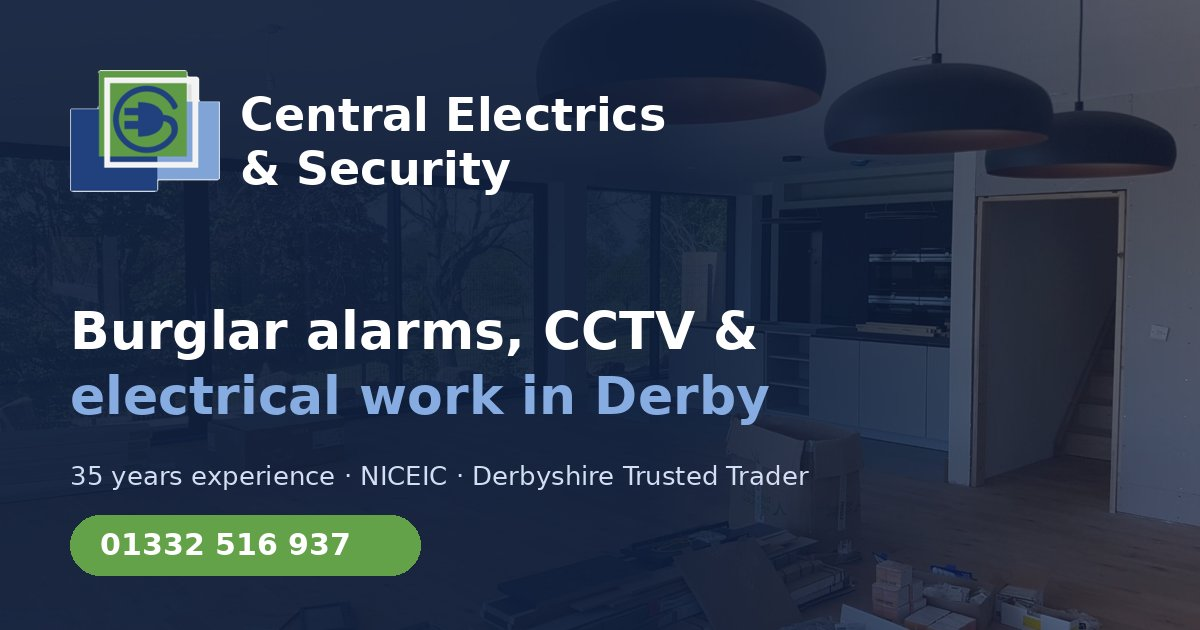
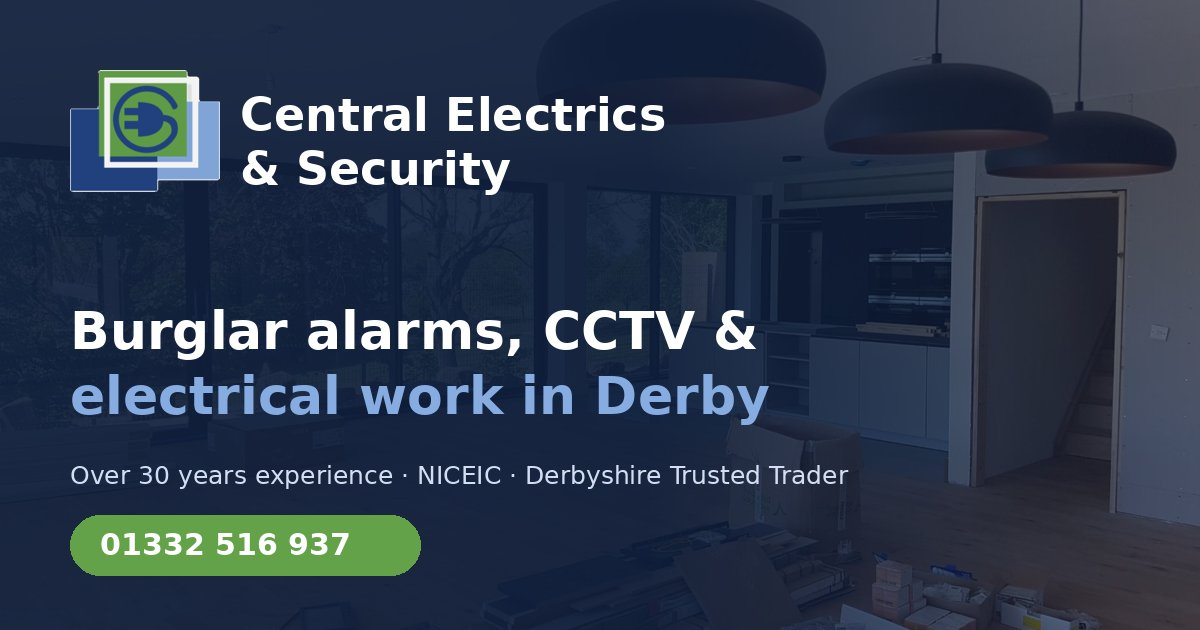
test

Changed region(s): [[0.0617, 0.7238, 0.7092, 0.7841]]

diff --git a/index.html b/index.html
@@ -4,14 +4,14 @@
 <meta charset="utf-8">
 <meta name="viewport" content="width=device-width, initial-scale=1, viewport-fit=cover">
 <title>Central Electrics & Security | Electricians, Burglar Alarms & CCTV in Derby</title>
-<meta name="description" content="Central Electrics & Security Ltd, Derby. Burglar alarms, CCTV, door entry, security lighting and domestic electrical work. NICEIC Domestic Installer with 35 years experience.">
+<meta name="description" content="Central Electrics & Security Ltd, Derby. Burglar alarms, CCTV, door entry, security lighting and domestic electrical work. NICEIC Domestic Installer with over 30 years experience.">
 <meta name="theme-color" content="#0e1d3a">
 <link rel="canonical" href="https://www.centralelectricsandsecurity.co.uk/">
 <meta property="og:type" content="website">
 <meta property="og:locale" content="en_GB">
 <meta property="og:site_name" content="Central Electrics &amp; Security">
 <meta property="og:title" content="Central Electrics & Security | Electricians, Burglar Alarms & CCTV in Derby">
-<meta property="og:description" content="Central Electrics & Security Ltd, Derby. Burglar alarms, CCTV, door entry, security lighting and domestic electrical work. NICEIC Domestic Installer with 35 years experience.">
+<meta property="og:description" content="Central Electrics & Security Ltd, Derby. Burglar alarms, CCTV, door entry, security lighting and domestic electrical work. NICEIC Domestic Installer with over 30 years experience.">
 <meta property="og:url" content="https://www.centralelectricsandsecurity.co.uk/">
 <meta property="og:image" content="https://www.centralelectricsandsecurity.co.uk/images/share.jpg">
 <meta property="og:image:width" content="1200"><meta property="og:image:height" content="630">
@@ -27,7 +27,7 @@
 <body>
 <a class="skip" href="#main">Skip to content</a>
 <div class="topbar"><div class="container">
-  <div class="badges"><span><svg viewBox="0 0 24 24" fill="none" stroke="currentColor" stroke-width="2" stroke-linecap="round" stroke-linejoin="round" aria-hidden="true" ><path d="M12 22s8-4 8-10V5l-8-3-8 3v7c0 6 8 10 8 10z"/><path d="m9 12 2 2 4-4"/></svg> NICEIC Domestic Installer</span><span><svg viewBox="0 0 24 24" fill="none" stroke="currentColor" stroke-width="2" stroke-linecap="round" stroke-linejoin="round" aria-hidden="true" ><path d="M12 22s8-4 8-10V5l-8-3-8 3v7c0 6 8 10 8 10z"/><path d="m9 12 2 2 4-4"/></svg> Derbyshire Trusted Trader</span><span><svg viewBox="0 0 24 24" fill="none" stroke="currentColor" stroke-width="2" stroke-linecap="round" stroke-linejoin="round" aria-hidden="true" ><path d="M12 22s8-4 8-10V5l-8-3-8 3v7c0 6 8 10 8 10z"/><path d="m9 12 2 2 4-4"/></svg> 35 years experience</span></div>
+  <div class="badges"><span><svg viewBox="0 0 24 24" fill="none" stroke="currentColor" stroke-width="2" stroke-linecap="round" stroke-linejoin="round" aria-hidden="true" ><path d="M12 22s8-4 8-10V5l-8-3-8 3v7c0 6 8 10 8 10z"/><path d="m9 12 2 2 4-4"/></svg> NICEIC Domestic Installer</span><span><svg viewBox="0 0 24 24" fill="none" stroke="currentColor" stroke-width="2" stroke-linecap="round" stroke-linejoin="round" aria-hidden="true" ><path d="M12 22s8-4 8-10V5l-8-3-8 3v7c0 6 8 10 8 10z"/><path d="m9 12 2 2 4-4"/></svg> Derbyshire Trusted Trader</span><span><svg viewBox="0 0 24 24" fill="none" stroke="currentColor" stroke-width="2" stroke-linecap="round" stroke-linejoin="round" aria-hidden="true" ><path d="M12 22s8-4 8-10V5l-8-3-8 3v7c0 6 8 10 8 10z"/><path d="m9 12 2 2 4-4"/></svg> over 30 years experience</span></div>
   <a href="tel:+441332516937">01332 516 937</a>
 </div></div>
 <header class="site-header"><div class="container">
@@ -41,14 +41,14 @@
 <section class="hero"><div class="container">
   <div>
     <span class="eyebrow">Electrical &amp; Security Specialists &middot; Derby</span>
-    <h1>Protecting Derbyshire homes for <em>35 years</em></h1>
-    <p>At Central Electrics &amp; Security Limited we pride ourselves on an efficient and friendly service, with 35 years experience we have the knowledge to provide a comprehensive electrical and security service.</p>
+    <h1>Protecting Derbyshire homes for <em>over 30 years</em></h1>
+    <p>At Central Electrics &amp; Security Limited we pride ourselves on an efficient and friendly service, with over 30 years experience we have the knowledge to provide a comprehensive electrical and security service.</p>
     <div class="hero-ctas">
       <a class="btn btn-green" href="tel:+441332516937"><svg viewBox="0 0 24 24" fill="none" stroke="currentColor" stroke-width="2" stroke-linecap="round" stroke-linejoin="round" aria-hidden="true" ><path d="M22 16.9v3a2 2 0 0 1-2.2 2 19.8 19.8 0 0 1-8.6-3.1 19.5 19.5 0 0 1-6-6A19.8 19.8 0 0 1 2.1 4.2 2 2 0 0 1 4.1 2h3a2 2 0 0 1 2 1.7c.1.9.4 1.8.7 2.7a2 2 0 0 1-.5 2.1L8 9.8a16 16 0 0 0 6 6l1.3-1.3a2 2 0 0 1 2.1-.4c.9.3 1.8.6 2.7.7a2 2 0 0 1 1.7 2z"/></svg> Call 01332 516 937</a>
       <a class="btn btn-ghost" href="contactus.html#quote">Get a free quotation</a>
     </div>
     <div class="hero-trust">
-      <div><b>35</b>years experience</div>
+      <div><b>30+</b>years experience</div>
       <div><b>NICEIC</b>Domestic Installer</div>
       <div><b>Trusted</b>Derbyshire Trader</div>
     </div>
@@ -77,7 +77,7 @@
   <div class="grid grid-3"><div class="card sec reveal"><div class="icon"><svg viewBox="0 0 24 24" fill="none" stroke="currentColor" stroke-width="2" stroke-linecap="round" stroke-linejoin="round" aria-hidden="true" ><path d="M5 12.6a10 10 0 0 1 14 0"/><path d="M1.4 9a15 15 0 0 1 21.2 0"/><path d="M8.5 16.4a5 5 0 0 1 7 0"/><circle cx="12" cy="20" r="1"/></svg></div><h3>Wireless alarm systems</h3><p>Quick, tidy installation with no cabling to run, ideal for finished homes and offices.</p></div><div class="card sec reveal"><div class="icon"><svg viewBox="0 0 24 24" fill="none" stroke="currentColor" stroke-width="2" stroke-linecap="round" stroke-linejoin="round" aria-hidden="true" ><path d="M6 8a6 6 0 0 1 12 0c0 7 3 9 3 9H3s3-2 3-9"/><path d="M10.3 21a1.9 1.9 0 0 0 3.4 0"/></svg></div><h3>Wired alarm systems</h3><p>Robust hard-wired intruder alarms with all cables concealed.</p></div><div class="card sec reveal"><div class="icon"><svg viewBox="0 0 24 24" fill="none" stroke="currentColor" stroke-width="2" stroke-linecap="round" stroke-linejoin="round" aria-hidden="true" ><path d="M16.75 12h3.63a1 1 0 0 1 .9 1.45l-1.38 2.76a1 1 0 0 1-.9.55h-1.76"/><path d="M3 7.5 15.5 4l2 6.5L5 14z"/><path d="M7 13.5 8 17H4v4"/><circle cx="16" cy="7" r=".5"/></svg></div><h3>CCTV systems</h3><p>Clear camera coverage of your property, designed around how you use it.</p></div><div class="card sec reveal"><div class="icon"><svg viewBox="0 0 24 24" fill="none" stroke="currentColor" stroke-width="2" stroke-linecap="round" stroke-linejoin="round" aria-hidden="true" ><rect x="5" y="2" width="14" height="20" rx="2"/><circle cx="12" cy="8" r="2"/><path d="M9 14h6M9 17h6"/></svg></div><h3>Door entry systems</h3><p>See and speak to visitors before you open the door.</p></div><div class="card sec reveal"><div class="icon"><svg viewBox="0 0 24 24" fill="none" stroke="currentColor" stroke-width="2" stroke-linecap="round" stroke-linejoin="round" aria-hidden="true" ><path d="M4 10h8l4-4v12l-4-4H4z"/><path d="M19 8l2-1M19 12h3M19 16l2 1"/></svg></div><h3>Security lighting</h3><p>Lighting that deters intruders and lights your way home.</p></div><div class="card sec reveal"><div class="icon"><svg viewBox="0 0 24 24" fill="none" stroke="currentColor" stroke-width="2" stroke-linecap="round" stroke-linejoin="round" aria-hidden="true" ><path d="M22 16.9v3a2 2 0 0 1-2.2 2 19.8 19.8 0 0 1-8.6-3.1 19.5 19.5 0 0 1-6-6A19.8 19.8 0 0 1 2.1 4.2 2 2 0 0 1 4.1 2h3a2 2 0 0 1 2 1.7c.1.9.4 1.8.7 2.7a2 2 0 0 1-.5 2.1L8 9.8a16 16 0 0 0 6 6l1.3-1.3a2 2 0 0 1 2.1-.4c.9.3 1.8.6 2.7.7a2 2 0 0 1 1.7 2z"/></svg></div><h3>Smart alarms</h3><p>Every system we fit can be controlled remotely from your phone, wherever you are.</p></div></div>
   <div style="margin-top:2rem"><a class="btn btn-green" href="security.html"><svg viewBox="0 0 24 24" fill="none" stroke="currentColor" stroke-width="2" stroke-linecap="round" stroke-linejoin="round" aria-hidden="true" ><path d="M12 22s8-4 8-10V5l-8-3-8 3v7c0 6 8 10 8 10z"/></svg> Explore our security services</a></div>
   <div class="stats" style="margin-top:3.5rem">
-    <div><b>35</b><span>years experience</span></div>
+    <div><b>30+</b><span>years experience</span></div>
     <div><b>2009</b><span>registered limited company</span></div>
     <div><b>BS 7671</b><span>IET Wiring Regulations</span></div>
     <div><b>100%</b><span>customer satisfaction is our aim</span></div>

diff --git a/aboutus.html b/aboutus.html
@@ -4,14 +4,14 @@
 <meta charset="utf-8">
 <meta name="viewport" content="width=device-width, initial-scale=1, viewport-fit=cover">
 <title>About Us | Central Electrics & Security, Mickleover, Derby</title>
-<meta name="description" content="Run by Paul Fowlkes, a qualified electrician and security installer with 35 years experience, based in Mickleover, Derby.">
+<meta name="description" content="Run by Paul Fowlkes, a qualified electrician and security installer with over 30 years experience, based in Mickleover, Derby.">
 <meta name="theme-color" content="#0e1d3a">
 <link rel="canonical" href="https://www.centralelectricsandsecurity.co.uk/aboutus.html">
 <meta property="og:type" content="website">
 <meta property="og:locale" content="en_GB">
 <meta property="og:site_name" content="Central Electrics &amp; Security">
 <meta property="og:title" content="About Us | Central Electrics & Security, Mickleover, Derby">
-<meta property="og:description" content="Run by Paul Fowlkes, a qualified electrician and security installer with 35 years experience, based in Mickleover, Derby.">
+<meta property="og:description" content="Run by Paul Fowlkes, a qualified electrician and security installer with over 30 years experience, based in Mickleover, Derby.">
 <meta property="og:url" content="https://www.centralelectricsandsecurity.co.uk/aboutus.html">
 <meta property="og:image" content="https://www.centralelectricsandsecurity.co.uk/images/share.jpg">
 <meta property="og:image:width" content="1200"><meta property="og:image:height" content="630">
@@ -27,7 +27,7 @@
 <body>
 <a class="skip" href="#main">Skip to content</a>
 <div class="topbar"><div class="container">
-  <div class="badges"><span><svg viewBox="0 0 24 24" fill="none" stroke="currentColor" stroke-width="2" stroke-linecap="round" stroke-linejoin="round" aria-hidden="true" ><path d="M12 22s8-4 8-10V5l-8-3-8 3v7c0 6 8 10 8 10z"/><path d="m9 12 2 2 4-4"/></svg> NICEIC Domestic Installer</span><span><svg viewBox="0 0 24 24" fill="none" stroke="currentColor" stroke-width="2" stroke-linecap="round" stroke-linejoin="round" aria-hidden="true" ><path d="M12 22s8-4 8-10V5l-8-3-8 3v7c0 6 8 10 8 10z"/><path d="m9 12 2 2 4-4"/></svg> Derbyshire Trusted Trader</span><span><svg viewBox="0 0 24 24" fill="none" stroke="currentColor" stroke-width="2" stroke-linecap="round" stroke-linejoin="round" aria-hidden="true" ><path d="M12 22s8-4 8-10V5l-8-3-8 3v7c0 6 8 10 8 10z"/><path d="m9 12 2 2 4-4"/></svg> 35 years experience</span></div>
+  <div class="badges"><span><svg viewBox="0 0 24 24" fill="none" stroke="currentColor" stroke-width="2" stroke-linecap="round" stroke-linejoin="round" aria-hidden="true" ><path d="M12 22s8-4 8-10V5l-8-3-8 3v7c0 6 8 10 8 10z"/><path d="m9 12 2 2 4-4"/></svg> NICEIC Domestic Installer</span><span><svg viewBox="0 0 24 24" fill="none" stroke="currentColor" stroke-width="2" stroke-linecap="round" stroke-linejoin="round" aria-hidden="true" ><path d="M12 22s8-4 8-10V5l-8-3-8 3v7c0 6 8 10 8 10z"/><path d="m9 12 2 2 4-4"/></svg> Derbyshire Trusted Trader</span><span><svg viewBox="0 0 24 24" fill="none" stroke="currentColor" stroke-width="2" stroke-linecap="round" stroke-linejoin="round" aria-hidden="true" ><path d="M12 22s8-4 8-10V5l-8-3-8 3v7c0 6 8 10 8 10z"/><path d="m9 12 2 2 4-4"/></svg> over 30 years experience</span></div>
   <a href="tel:+441332516937">01332 516 937</a>
 </div></div>
 <header class="site-header"><div class="container">
@@ -45,12 +45,12 @@
 <section><div class="container split rev">
   <figure class="profile reveal">
     <img src="images/paul-fowlkes.jpg" alt="Paul Fowlkes, electrician and security installer, at work" width="575" height="719">
-    <figcaption><b>Paul Fowlkes</b><span>Qualified electrician &amp; security installer &middot; 35 years</span></figcaption>
+    <figcaption><b>Paul Fowlkes</b><span>Qualified electrician &amp; security installer &middot; over 30 years</span></figcaption>
   </figure>
   <div class="prose reveal">
     <span class="eyebrow">Family run &middot; Mickleover, Derby</span>
     <h2>Meet Paul Fowlkes</h2>
-    <p>Central Electrics &amp; Security Ltd is run by Paul Fowlkes, who has been working for 35 years as a qualified electrician and security installer.</p>
+    <p>Central Electrics &amp; Security Ltd is run by Paul Fowlkes, who has been working for over 30 years as a qualified electrician and security installer.</p>
     <p>Based in Mickleover (Derby), the company was registered with Companies House in 2009 and offers electrical and security services to clients throughout Derbyshire and surrounding areas.</p>
     <p>Since being established, the business has grown from strength to strength, ensuring a prompt and professional service, hence, we have developed an outstanding reputation within the local community.</p>
     <p>Our aim is to keep our services high and our prices very competitive.</p>
@@ -60,7 +60,7 @@
 </div>
 <div class="container" style="margin-top:3rem">
     <div class="grid grid-4">
-      <div class="card"><div class="icon"><svg viewBox="0 0 24 24" fill="none" stroke="currentColor" stroke-width="2" stroke-linecap="round" stroke-linejoin="round" aria-hidden="true" ><path d="M12 22s8-4 8-10V5l-8-3-8 3v7c0 6 8 10 8 10z"/></svg></div><h3>35 years</h3><p>as a qualified electrician &amp; security installer</p></div>
+      <div class="card"><div class="icon"><svg viewBox="0 0 24 24" fill="none" stroke="currentColor" stroke-width="2" stroke-linecap="round" stroke-linejoin="round" aria-hidden="true" ><path d="M12 22s8-4 8-10V5l-8-3-8 3v7c0 6 8 10 8 10z"/></svg></div><h3>30+ years</h3><p>as a qualified electrician &amp; security installer</p></div>
       <div class="card"><div class="icon"><svg viewBox="0 0 24 24" fill="none" stroke="currentColor" stroke-width="2" stroke-linecap="round" stroke-linejoin="round" aria-hidden="true" ><path d="m3 10 9-7 9 7v10a2 2 0 0 1-2 2H5a2 2 0 0 1-2-2z"/><path d="M9 22V12h6v10"/></svg></div><h3>Since 2009</h3><p>registered limited company, no. 06894250</p></div>
       <div class="card"><div class="icon"><svg viewBox="0 0 24 24" fill="none" stroke="currentColor" stroke-width="2" stroke-linecap="round" stroke-linejoin="round" aria-hidden="true" ><path d="M12 22s8-4 8-10V5l-8-3-8 3v7c0 6 8 10 8 10z"/><path d="m9 12 2 2 4-4"/></svg></div><h3>NICEIC</h3><p>Domestic Installer</p></div>
       <div class="card"><div class="icon"><svg viewBox="0 0 24 24" fill="none" stroke="currentColor" stroke-width="2" stroke-linecap="round" stroke-linejoin="round" aria-hidden="true" ><path d="m12 2 3.1 6.3 6.9 1-5 4.9 1.2 6.8L12 17.8 5.8 21l1.2-6.8-5-4.9 6.9-1z"/></svg></div><h3>Trusted Trader</h3><p>Derbyshire scheme member since 2009</p></div>

diff --git a/areascovered.html b/areascovered.html
@@ -27,7 +27,7 @@
 <body>
 <a class="skip" href="#main">Skip to content</a>
 <div class="topbar"><div class="container">
-  <div class="badges"><span><svg viewBox="0 0 24 24" fill="none" stroke="currentColor" stroke-width="2" stroke-linecap="round" stroke-linejoin="round" aria-hidden="true" ><path d="M12 22s8-4 8-10V5l-8-3-8 3v7c0 6 8 10 8 10z"/><path d="m9 12 2 2 4-4"/></svg> NICEIC Domestic Installer</span><span><svg viewBox="0 0 24 24" fill="none" stroke="currentColor" stroke-width="2" stroke-linecap="round" stroke-linejoin="round" aria-hidden="true" ><path d="M12 22s8-4 8-10V5l-8-3-8 3v7c0 6 8 10 8 10z"/><path d="m9 12 2 2 4-4"/></svg> Derbyshire Trusted Trader</span><span><svg viewBox="0 0 24 24" fill="none" stroke="currentColor" stroke-width="2" stroke-linecap="round" stroke-linejoin="round" aria-hidden="true" ><path d="M12 22s8-4 8-10V5l-8-3-8 3v7c0 6 8 10 8 10z"/><path d="m9 12 2 2 4-4"/></svg> 35 years experience</span></div>
+  <div class="badges"><span><svg viewBox="0 0 24 24" fill="none" stroke="currentColor" stroke-width="2" stroke-linecap="round" stroke-linejoin="round" aria-hidden="true" ><path d="M12 22s8-4 8-10V5l-8-3-8 3v7c0 6 8 10 8 10z"/><path d="m9 12 2 2 4-4"/></svg> NICEIC Domestic Installer</span><span><svg viewBox="0 0 24 24" fill="none" stroke="currentColor" stroke-width="2" stroke-linecap="round" stroke-linejoin="round" aria-hidden="true" ><path d="M12 22s8-4 8-10V5l-8-3-8 3v7c0 6 8 10 8 10z"/><path d="m9 12 2 2 4-4"/></svg> Derbyshire Trusted Trader</span><span><svg viewBox="0 0 24 24" fill="none" stroke="currentColor" stroke-width="2" stroke-linecap="round" stroke-linejoin="round" aria-hidden="true" ><path d="M12 22s8-4 8-10V5l-8-3-8 3v7c0 6 8 10 8 10z"/><path d="m9 12 2 2 4-4"/></svg> over 30 years experience</span></div>
   <a href="tel:+441332516937">01332 516 937</a>
 </div></div>
 <header class="site-header"><div class="container">

diff --git a/contactus.html b/contactus.html
@@ -27,7 +27,7 @@
 <body>
 <a class="skip" href="#main">Skip to content</a>
 <div class="topbar"><div class="container">
-  <div class="badges"><span><svg viewBox="0 0 24 24" fill="none" stroke="currentColor" stroke-width="2" stroke-linecap="round" stroke-linejoin="round" aria-hidden="true" ><path d="M12 22s8-4 8-10V5l-8-3-8 3v7c0 6 8 10 8 10z"/><path d="m9 12 2 2 4-4"/></svg> NICEIC Domestic Installer</span><span><svg viewBox="0 0 24 24" fill="none" stroke="currentColor" stroke-width="2" stroke-linecap="round" stroke-linejoin="round" aria-hidden="true" ><path d="M12 22s8-4 8-10V5l-8-3-8 3v7c0 6 8 10 8 10z"/><path d="m9 12 2 2 4-4"/></svg> Derbyshire Trusted Trader</span><span><svg viewBox="0 0 24 24" fill="none" stroke="currentColor" stroke-width="2" stroke-linecap="round" stroke-linejoin="round" aria-hidden="true" ><path d="M12 22s8-4 8-10V5l-8-3-8 3v7c0 6 8 10 8 10z"/><path d="m9 12 2 2 4-4"/></svg> 35 years experience</span></div>
+  <div class="badges"><span><svg viewBox="0 0 24 24" fill="none" stroke="currentColor" stroke-width="2" stroke-linecap="round" stroke-linejoin="round" aria-hidden="true" ><path d="M12 22s8-4 8-10V5l-8-3-8 3v7c0 6 8 10 8 10z"/><path d="m9 12 2 2 4-4"/></svg> NICEIC Domestic Installer</span><span><svg viewBox="0 0 24 24" fill="none" stroke="currentColor" stroke-width="2" stroke-linecap="round" stroke-linejoin="round" aria-hidden="true" ><path d="M12 22s8-4 8-10V5l-8-3-8 3v7c0 6 8 10 8 10z"/><path d="m9 12 2 2 4-4"/></svg> Derbyshire Trusted Trader</span><span><svg viewBox="0 0 24 24" fill="none" stroke="currentColor" stroke-width="2" stroke-linecap="round" stroke-linejoin="round" aria-hidden="true" ><path d="M12 22s8-4 8-10V5l-8-3-8 3v7c0 6 8 10 8 10z"/><path d="m9 12 2 2 4-4"/></svg> over 30 years experience</span></div>
   <a href="tel:+441332516937">01332 516 937</a>
 </div></div>
 <header class="site-header"><div class="container">

diff --git a/domestic.html b/domestic.html
@@ -27,7 +27,7 @@
 <body>
 <a class="skip" href="#main">Skip to content</a>
 <div class="topbar"><div class="container">
-  <div class="badges"><span><svg viewBox="0 0 24 24" fill="none" stroke="currentColor" stroke-width="2" stroke-linecap="round" stroke-linejoin="round" aria-hidden="true" ><path d="M12 22s8-4 8-10V5l-8-3-8 3v7c0 6 8 10 8 10z"/><path d="m9 12 2 2 4-4"/></svg> NICEIC Domestic Installer</span><span><svg viewBox="0 0 24 24" fill="none" stroke="currentColor" stroke-width="2" stroke-linecap="round" stroke-linejoin="round" aria-hidden="true" ><path d="M12 22s8-4 8-10V5l-8-3-8 3v7c0 6 8 10 8 10z"/><path d="m9 12 2 2 4-4"/></svg> Derbyshire Trusted Trader</span><span><svg viewBox="0 0 24 24" fill="none" stroke="currentColor" stroke-width="2" stroke-linecap="round" stroke-linejoin="round" aria-hidden="true" ><path d="M12 22s8-4 8-10V5l-8-3-8 3v7c0 6 8 10 8 10z"/><path d="m9 12 2 2 4-4"/></svg> 35 years experience</span></div>
+  <div class="badges"><span><svg viewBox="0 0 24 24" fill="none" stroke="currentColor" stroke-width="2" stroke-linecap="round" stroke-linejoin="round" aria-hidden="true" ><path d="M12 22s8-4 8-10V5l-8-3-8 3v7c0 6 8 10 8 10z"/><path d="m9 12 2 2 4-4"/></svg> NICEIC Domestic Installer</span><span><svg viewBox="0 0 24 24" fill="none" stroke="currentColor" stroke-width="2" stroke-linecap="round" stroke-linejoin="round" aria-hidden="true" ><path d="M12 22s8-4 8-10V5l-8-3-8 3v7c0 6 8 10 8 10z"/><path d="m9 12 2 2 4-4"/></svg> Derbyshire Trusted Trader</span><span><svg viewBox="0 0 24 24" fill="none" stroke="currentColor" stroke-width="2" stroke-linecap="round" stroke-linejoin="round" aria-hidden="true" ><path d="M12 22s8-4 8-10V5l-8-3-8 3v7c0 6 8 10 8 10z"/><path d="m9 12 2 2 4-4"/></svg> over 30 years experience</span></div>
   <a href="tel:+441332516937">01332 516 937</a>
 </div></div>
 <header class="site-header"><div class="container">

diff --git a/our-speciality.html b/our-speciality.html
@@ -27,7 +27,7 @@
 <body>
 <a class="skip" href="#main">Skip to content</a>
 <div class="topbar"><div class="container">
-  <div class="badges"><span><svg viewBox="0 0 24 24" fill="none" stroke="currentColor" stroke-width="2" stroke-linecap="round" stroke-linejoin="round" aria-hidden="true" ><path d="M12 22s8-4 8-10V5l-8-3-8 3v7c0 6 8 10 8 10z"/><path d="m9 12 2 2 4-4"/></svg> NICEIC Domestic Installer</span><span><svg viewBox="0 0 24 24" fill="none" stroke="currentColor" stroke-width="2" stroke-linecap="round" stroke-linejoin="round" aria-hidden="true" ><path d="M12 22s8-4 8-10V5l-8-3-8 3v7c0 6 8 10 8 10z"/><path d="m9 12 2 2 4-4"/></svg> Derbyshire Trusted Trader</span><span><svg viewBox="0 0 24 24" fill="none" stroke="currentColor" stroke-width="2" stroke-linecap="round" stroke-linejoin="round" aria-hidden="true" ><path d="M12 22s8-4 8-10V5l-8-3-8 3v7c0 6 8 10 8 10z"/><path d="m9 12 2 2 4-4"/></svg> 35 years experience</span></div>
+  <div class="badges"><span><svg viewBox="0 0 24 24" fill="none" stroke="currentColor" stroke-width="2" stroke-linecap="round" stroke-linejoin="round" aria-hidden="true" ><path d="M12 22s8-4 8-10V5l-8-3-8 3v7c0 6 8 10 8 10z"/><path d="m9 12 2 2 4-4"/></svg> NICEIC Domestic Installer</span><span><svg viewBox="0 0 24 24" fill="none" stroke="currentColor" stroke-width="2" stroke-linecap="round" stroke-linejoin="round" aria-hidden="true" ><path d="M12 22s8-4 8-10V5l-8-3-8 3v7c0 6 8 10 8 10z"/><path d="m9 12 2 2 4-4"/></svg> Derbyshire Trusted Trader</span><span><svg viewBox="0 0 24 24" fill="none" stroke="currentColor" stroke-width="2" stroke-linecap="round" stroke-linejoin="round" aria-hidden="true" ><path d="M12 22s8-4 8-10V5l-8-3-8 3v7c0 6 8 10 8 10z"/><path d="m9 12 2 2 4-4"/></svg> over 30 years experience</span></div>
   <a href="tel:+441332516937">01332 516 937</a>
 </div></div>
 <header class="site-header"><div class="container">

diff --git a/security.html b/security.html
@@ -27,7 +27,7 @@
 <body>
 <a class="skip" href="#main">Skip to content</a>
 <div class="topbar"><div class="container">
-  <div class="badges"><span><svg viewBox="0 0 24 24" fill="none" stroke="currentColor" stroke-width="2" stroke-linecap="round" stroke-linejoin="round" aria-hidden="true" ><path d="M12 22s8-4 8-10V5l-8-3-8 3v7c0 6 8 10 8 10z"/><path d="m9 12 2 2 4-4"/></svg> NICEIC Domestic Installer</span><span><svg viewBox="0 0 24 24" fill="none" stroke="currentColor" stroke-width="2" stroke-linecap="round" stroke-linejoin="round" aria-hidden="true" ><path d="M12 22s8-4 8-10V5l-8-3-8 3v7c0 6 8 10 8 10z"/><path d="m9 12 2 2 4-4"/></svg> Derbyshire Trusted Trader</span><span><svg viewBox="0 0 24 24" fill="none" stroke="currentColor" stroke-width="2" stroke-linecap="round" stroke-linejoin="round" aria-hidden="true" ><path d="M12 22s8-4 8-10V5l-8-3-8 3v7c0 6 8 10 8 10z"/><path d="m9 12 2 2 4-4"/></svg> 35 years experience</span></div>
+  <div class="badges"><span><svg viewBox="0 0 24 24" fill="none" stroke="currentColor" stroke-width="2" stroke-linecap="round" stroke-linejoin="round" aria-hidden="true" ><path d="M12 22s8-4 8-10V5l-8-3-8 3v7c0 6 8 10 8 10z"/><path d="m9 12 2 2 4-4"/></svg> NICEIC Domestic Installer</span><span><svg viewBox="0 0 24 24" fill="none" stroke="currentColor" stroke-width="2" stroke-linecap="round" stroke-linejoin="round" aria-hidden="true" ><path d="M12 22s8-4 8-10V5l-8-3-8 3v7c0 6 8 10 8 10z"/><path d="m9 12 2 2 4-4"/></svg> Derbyshire Trusted Trader</span><span><svg viewBox="0 0 24 24" fill="none" stroke="currentColor" stroke-width="2" stroke-linecap="round" stroke-linejoin="round" aria-hidden="true" ><path d="M12 22s8-4 8-10V5l-8-3-8 3v7c0 6 8 10 8 10z"/><path d="m9 12 2 2 4-4"/></svg> over 30 years experience</span></div>
   <a href="tel:+441332516937">01332 516 937</a>
 </div></div>
 <header class="site-header"><div class="container">

diff --git a/testing.html b/testing.html
@@ -27,7 +27,7 @@
 <body>
 <a class="skip" href="#main">Skip to content</a>
 <div class="topbar"><div class="container">
-  <div class="badges"><span><svg viewBox="0 0 24 24" fill="none" stroke="currentColor" stroke-width="2" stroke-linecap="round" stroke-linejoin="round" aria-hidden="true" ><path d="M12 22s8-4 8-10V5l-8-3-8 3v7c0 6 8 10 8 10z"/><path d="m9 12 2 2 4-4"/></svg> NICEIC Domestic Installer</span><span><svg viewBox="0 0 24 24" fill="none" stroke="currentColor" stroke-width="2" stroke-linecap="round" stroke-linejoin="round" aria-hidden="true" ><path d="M12 22s8-4 8-10V5l-8-3-8 3v7c0 6 8 10 8 10z"/><path d="m9 12 2 2 4-4"/></svg> Derbyshire Trusted Trader</span><span><svg viewBox="0 0 24 24" fill="none" stroke="currentColor" stroke-width="2" stroke-linecap="round" stroke-linejoin="round" aria-hidden="true" ><path d="M12 22s8-4 8-10V5l-8-3-8 3v7c0 6 8 10 8 10z"/><path d="m9 12 2 2 4-4"/></svg> 35 years experience</span></div>
+  <div class="badges"><span><svg viewBox="0 0 24 24" fill="none" stroke="currentColor" stroke-width="2" stroke-linecap="round" stroke-linejoin="round" aria-hidden="true" ><path d="M12 22s8-4 8-10V5l-8-3-8 3v7c0 6 8 10 8 10z"/><path d="m9 12 2 2 4-4"/></svg> NICEIC Domestic Installer</span><span><svg viewBox="0 0 24 24" fill="none" stroke="currentColor" stroke-width="2" stroke-linecap="round" stroke-linejoin="round" aria-hidden="true" ><path d="M12 22s8-4 8-10V5l-8-3-8 3v7c0 6 8 10 8 10z"/><path d="m9 12 2 2 4-4"/></svg> Derbyshire Trusted Trader</span><span><svg viewBox="0 0 24 24" fill="none" stroke="currentColor" stroke-width="2" stroke-linecap="round" stroke-linejoin="round" aria-hidden="true" ><path d="M12 22s8-4 8-10V5l-8-3-8 3v7c0 6 8 10 8 10z"/><path d="m9 12 2 2 4-4"/></svg> over 30 years experience</span></div>
   <a href="tel:+441332516937">01332 516 937</a>
 </div></div>
 <header class="site-header"><div class="container">
